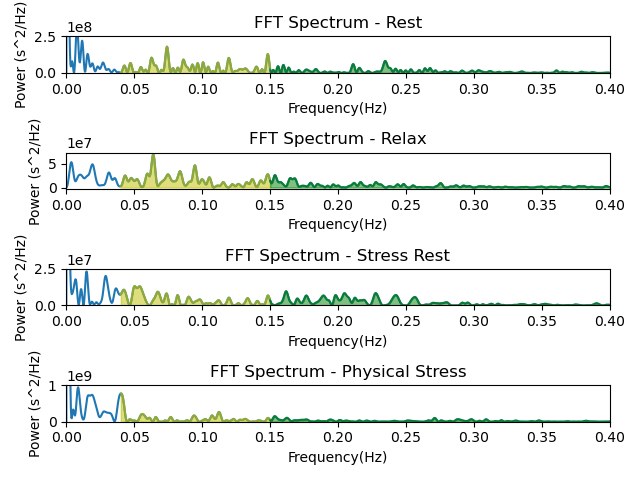
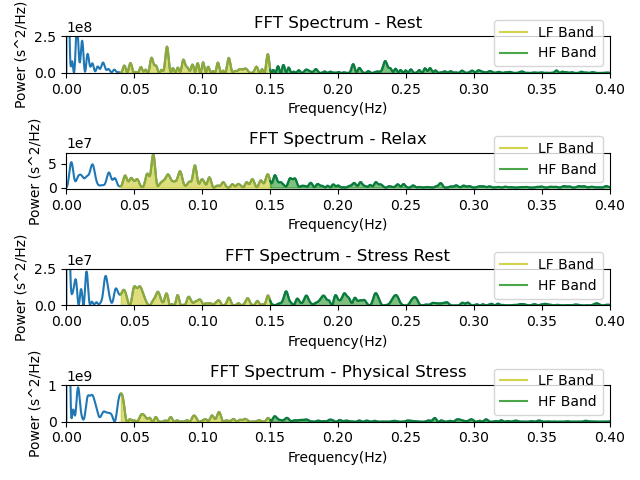
done

diff --git a/project3_module.py b/project3_module.py
@@ -252,13 +252,14 @@ def frequency_filter(ibi_values, dt = 0.1):
     #plot frequency domain magnitude in units of power for given IBI timecourse
     plt.plot(frequency, power)
     #plot low frequency band
-    plt.plot(low_freq, low_power, alpha = 0.7, color='y')
+    plt.plot(low_freq, low_power, alpha = 0.7, color='y', label = 'LF Band')
     plt.fill_between(low_freq, low_power, alpha = 0.5, color='y') #shade below line
     # plot high frequency band
-    plt.plot(high_freq, high_power, alpha = 0.7, color='g')
+    plt.plot(high_freq, high_power, alpha = 0.7, color='g', label="HF Band")
     plt.fill_between(high_freq, high_power, alpha = 0.5, color='g') #shade below line
     #zoom in on frequency bands
     plt.xlim(0,0.4)
+    plt.legend()
     #return arrays containing frequency, power, as well as freq and power data for LF and Hf bands
     return frequency, power, low_freq, low_power, high_freq, high_power
     
